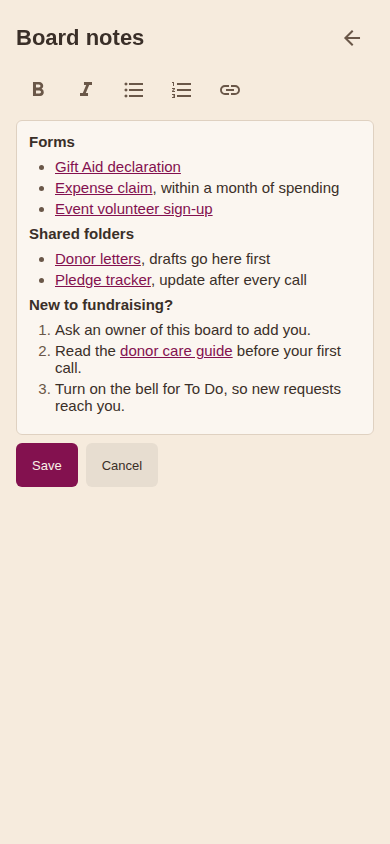
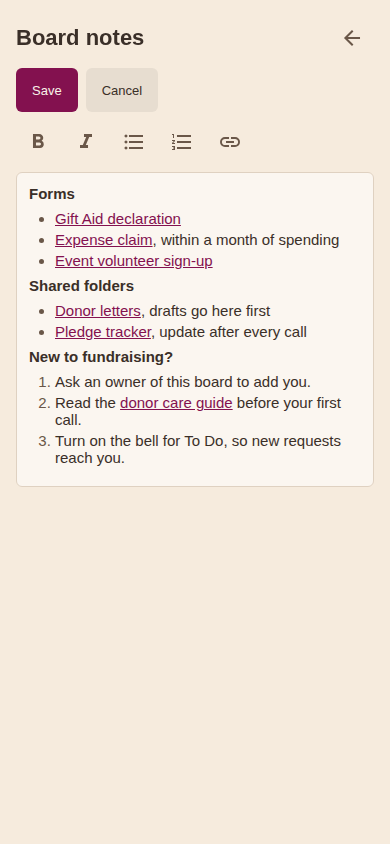
fix(notes): Save above the phone editor; seed on Mac
On an iPhone the keyboard covered Save below a page of notes, and
nothing in the editor dismisses it: the Native run typed its line and
never saved. The phone's notes editor now puts Save and Cancel above
the text.

The seed selected all with Control+A before pasting a second version
of the notes; on the Mac the iOS run seeds from, that selected
nothing and the paste was appended, so the notes appeared twice. It
uses ControlOrMeta+A, as notes-e2e now does.

diff --git a/app/src/components/notes/NotesEditor.tsx b/app/src/components/notes/NotesEditor.tsx
@@ -29,6 +29,7 @@ export function NotesEditor({
   otherName,
   onClosed,
   autoFocus,
+  actionsFirst,
 }: {
   boardId: string;
   /** The page as it stood when editing began. */
@@ -38,6 +39,12 @@ export function NotesEditor({
   otherName: (uid: string | undefined) => string;
   onClosed: () => void;
   autoFocus?: boolean;
+  /**
+   * Save and Cancel above the text rather than below it: on a phone the
+   * editor has the screen, and a page of notes put Save under the iPhone's
+   * keyboard, which the person cannot dismiss from the editor.
+   */
+  actionsFirst?: boolean;
 }) {
   const t = useTheme();
   // The page as editing began, kept: the parent passes the live page, and a
@@ -72,8 +79,16 @@ export function NotesEditor({
     });
   };
 
+  const actions = (
+    <Row style={styles.wrapRow}>
+      <Button label="Save" busy={busy} disabled={over} onPress={() => void save(base)} />
+      <Button label="Cancel" variant="secondary" onPress={onClosed} />
+    </Row>
+  );
+
   return (
     <View style={styles.wrap}>
+      {actionsFirst && !conflict ? actions : null}
       {conflict ? (
         <View
           style={[styles.notice, { backgroundColor: t.bg.raised, borderColor: t.border.strong, borderLeftColor: t.accent.base }]}
@@ -117,12 +132,7 @@ export function NotesEditor({
         <Hint>{BOARD_NOTES_MAX - length} characters left.</Hint>
       ) : null}
       {error ? <Body>{error}</Body> : null}
-      {conflict ? null : (
-        <Row style={styles.wrapRow}>
-          <Button label="Save" busy={busy} disabled={over} onPress={() => void save(base)} />
-          <Button label="Cancel" variant="secondary" onPress={onClosed} />
-        </Row>
-      )}
+      {conflict || actionsFirst ? null : actions}
     </View>
   );
 }

diff --git a/app/src/screens/BoardNotesScreen.tsx b/app/src/screens/BoardNotesScreen.tsx
@@ -41,6 +41,7 @@ export function BoardNotesScreen({ boardId, user }: { boardId: string; user: Ses
           otherName={(uid) => members.find((m) => m.uid === uid)?.displayName ?? 'Someone'}
           onClosed={nav.pop}
           autoFocus
+          actionsFirst
         />
       )}
     </Screen>

diff --git a/docs/USER-MANUAL.md b/docs/USER-MANUAL.md
@@ -200,7 +200,8 @@ point the notes at a card that holds a file.
 To change them, tap the **pencil** (**Edit notes**). It is the same editor, and
 the same buttons, as a card's description (see *The formatting buttons*): bold,
 italic, lists and links. A bold line does the work of a heading. On a phone the
-editor fills the screen; in a browser it opens in the panel. **Save** when you
+editor fills the screen, with **Save** and **Cancel** at the top, clear of the
+keyboard; in a browser it opens in the panel. **Save** when you
 are done. Saving with nothing left in the editor empties the notes, and on a
 phone their page goes away until someone writes some again. The notes hold up to
 50,000 characters.
